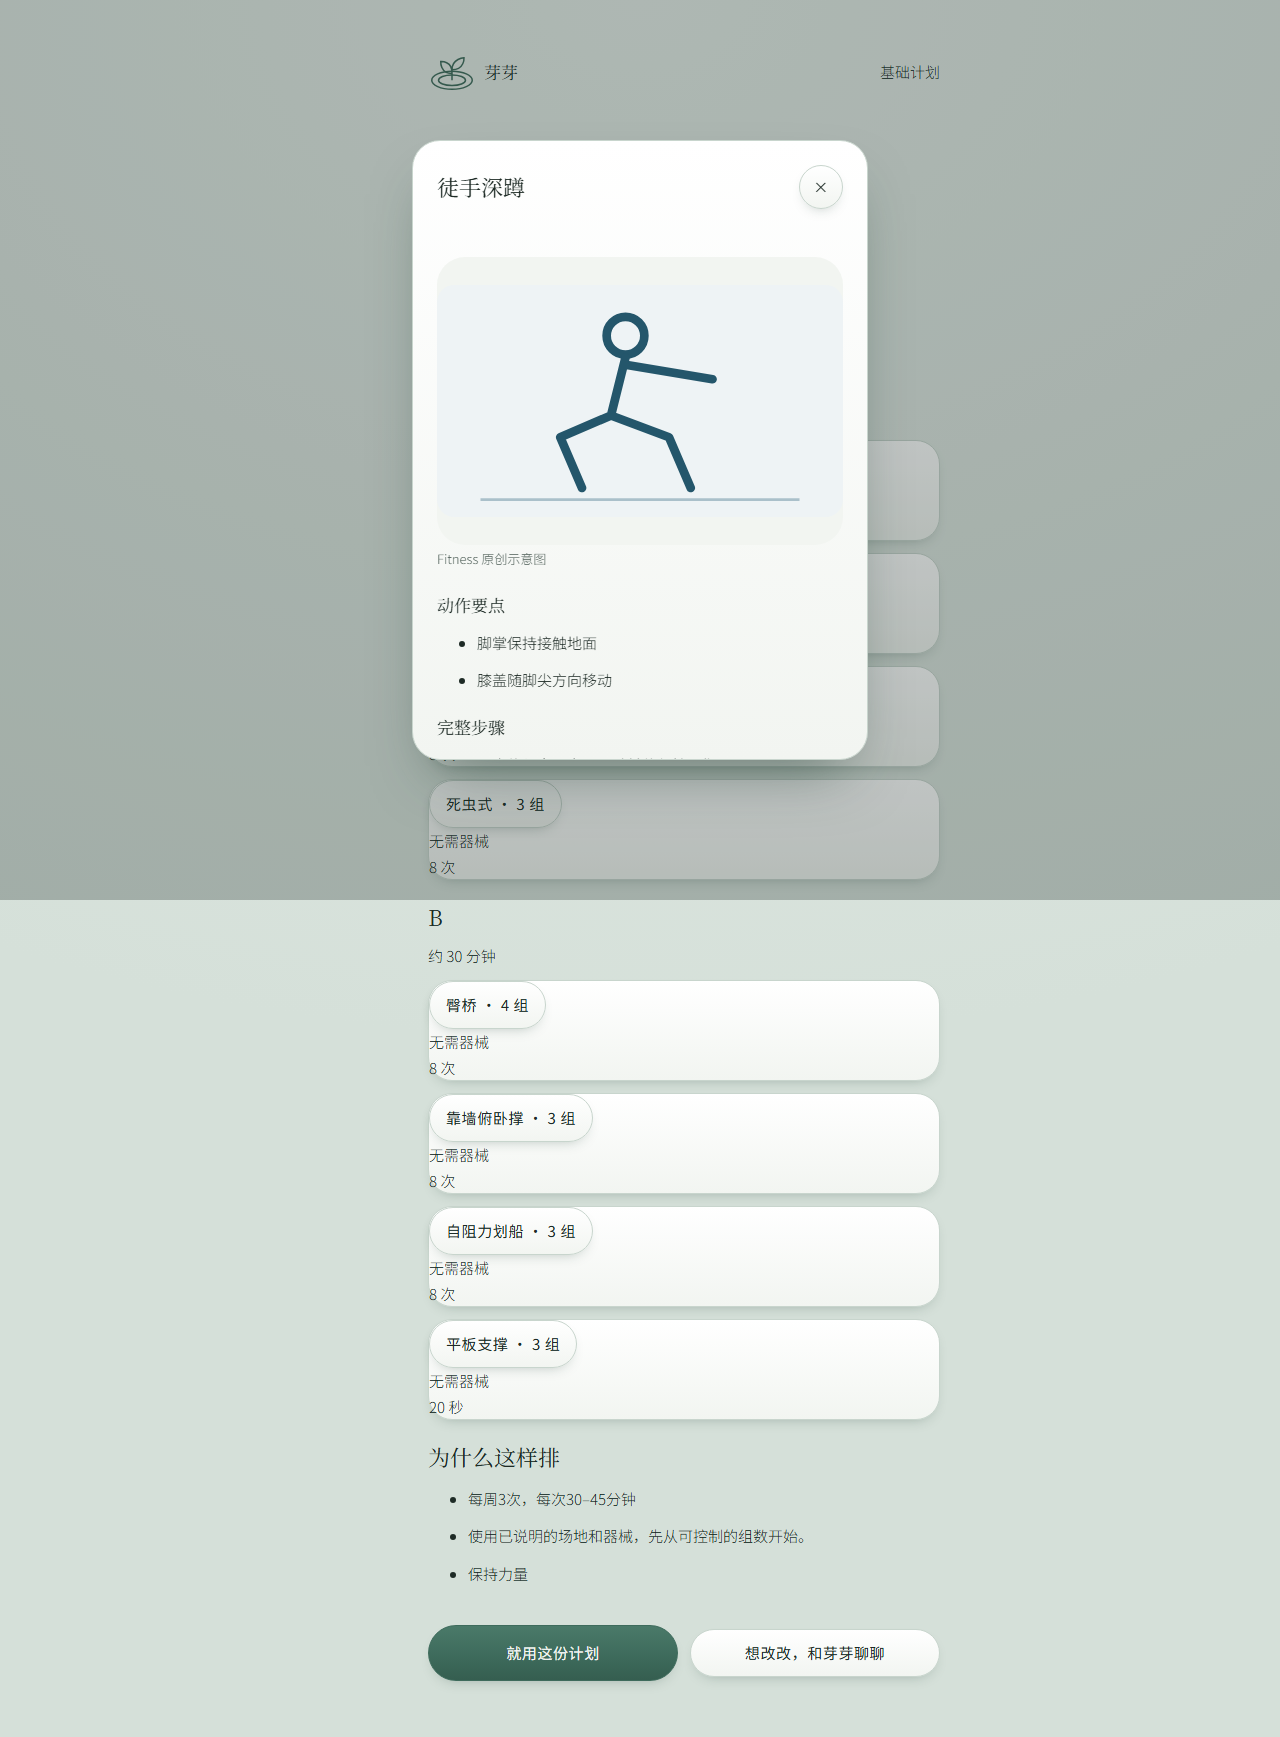
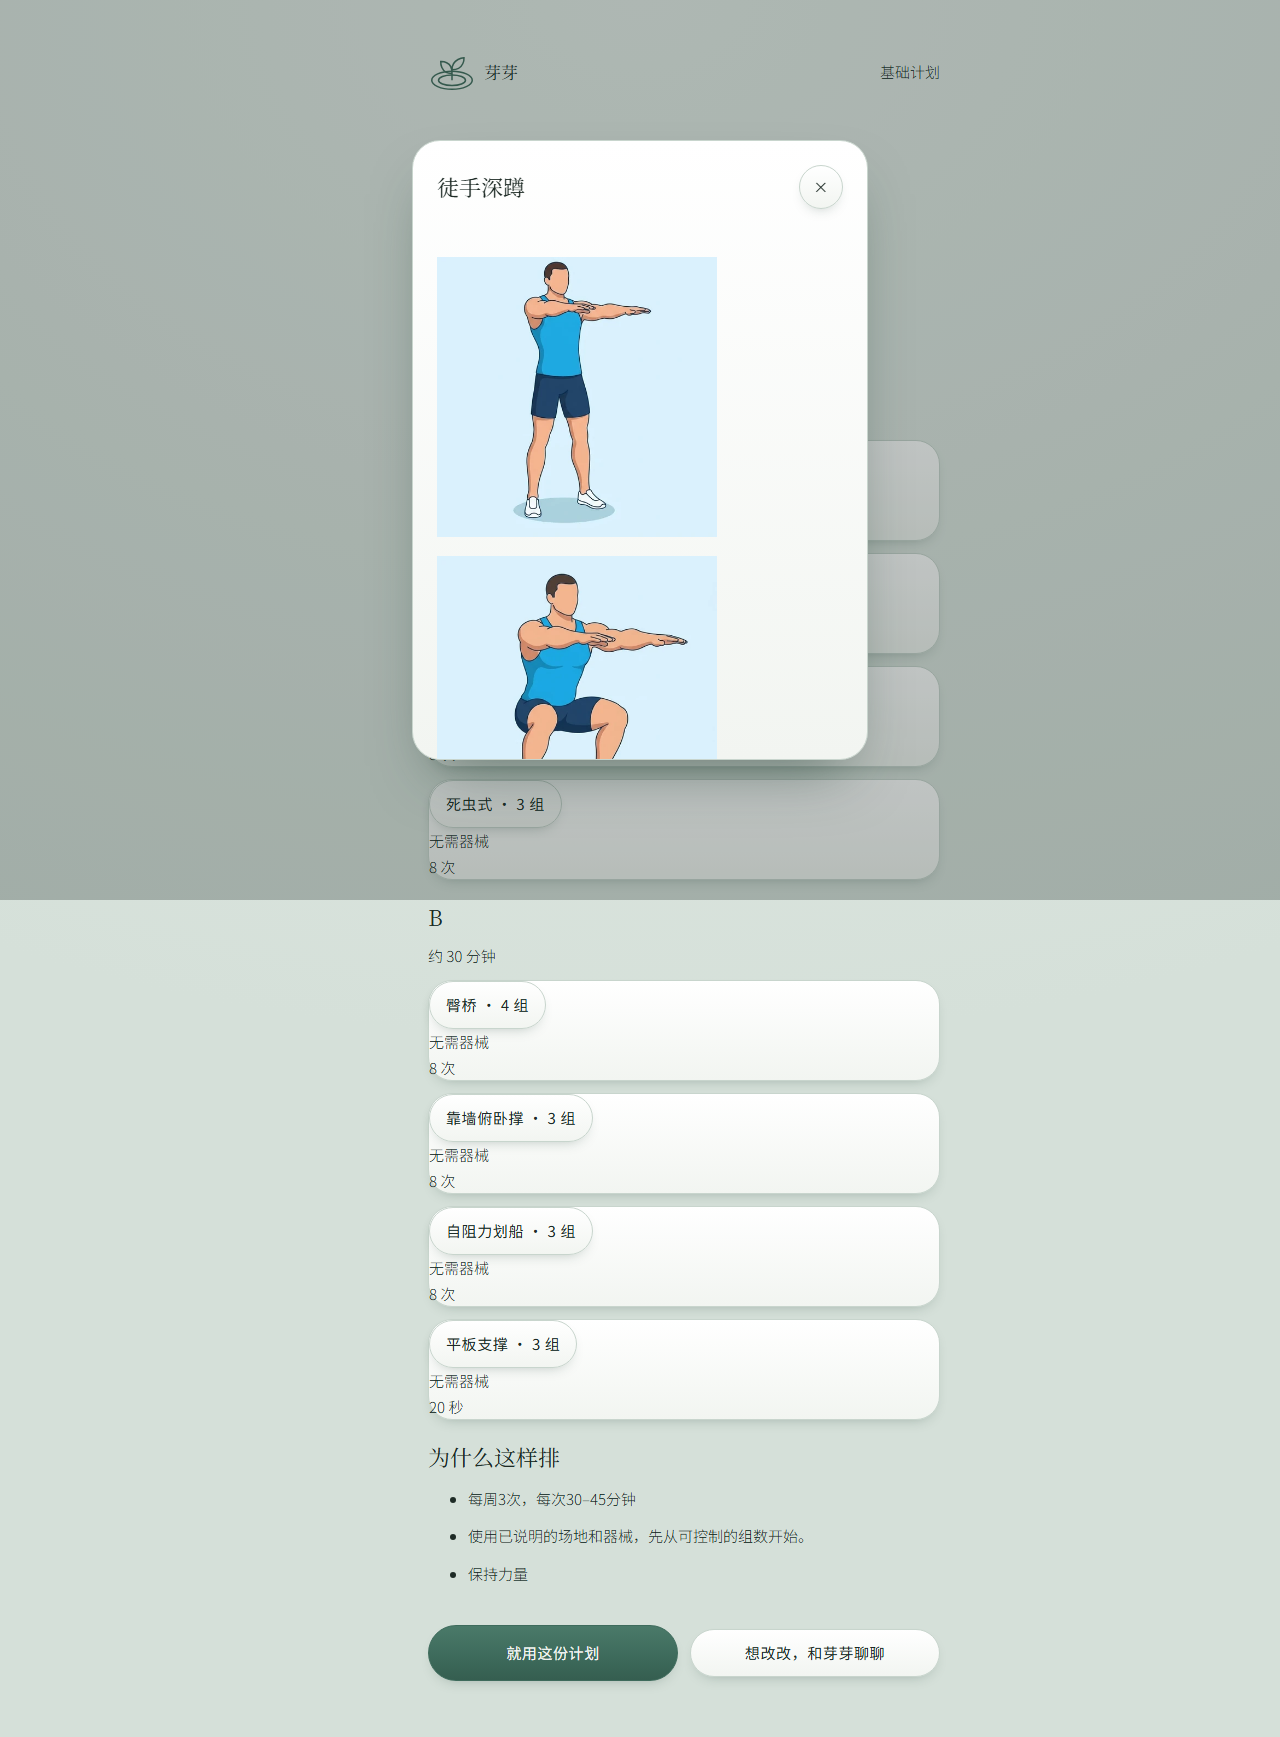
feat: replace legacy stick illustrations with matched and original person media

Changed region(s): [[0.3438, 0.1554, 0.5625, 0.4352], [0.5, 0.2487, 0.5625, 0.2798]]

diff --git a/src/ui/components/ExerciseMedia.tsx b/src/ui/components/ExerciseMedia.tsx
@@ -1,4 +1,4 @@
-import { catalogMetadata } from '../../catalog/registry';
+import { exerciseVisual, exerciseVisualMetadata } from '../../catalog/exercise-visual';
 import { RepDBMedia } from './RepDBMedia';
 import { AppIcon } from './AppIcon';
 import { useState } from 'react';
@@ -10,14 +10,15 @@ export function ExerciseMedia({ exerciseId, exerciseName, locale }: { exerciseId
  const [state, setState] = useState<'idle' | 'loading' | 'failed'>('idle');
  const [imageFailed, setImageFailed] = useState(false);
  const zh = locale === 'zh';
- const repdb = catalogMetadata.has(exerciseId);
- if (!media) return repdb ? <RepDBMedia exerciseId={exerciseId} exerciseName={exerciseName} locale={locale} /> : null;
+ const repdb = exerciseVisualMetadata(exerciseId);
+ const visual = exerciseVisual(exerciseId);
+ if (!media) return repdb ? <RepDBMedia exerciseId={exerciseId} exerciseName={exerciseName} locale={locale} /> : visual ? <><img src={visual.src} alt={exerciseName} width="280" height="280"/><p className="muted">{zh ? 'Fitness 原创示意图' : visual.attribution}</p></> : null;
  const url = media.videoId && youtubeEmbedUrl(media.videoId);
  return <section style={{ overflowWrap: 'anywhere' }} aria-label={zh ? `${exerciseName} 媒体参考` : `${exerciseName} media reference`}>
-  {!imageFailed && <img src={media.illustration} alt={zh ? `${exerciseName} 原创示意图` : `${exerciseName} original illustration`} width="280" height="160" style={{ maxWidth: '100%', height: 'auto' }} onError={() => setImageFailed(true)} />}
+  {repdb ? <RepDBMedia exerciseId={exerciseId} exerciseName={exerciseName} locale={locale}/> : !imageFailed && visual && <img src={visual.src} alt={exerciseName} width="280" height="280" style={{ maxWidth: '100%', height: 'auto' }} onError={() => setImageFailed(true)} />}
   {imageFailed && <p role="status"><AppIcon name="info"/>{zh ? '示意图不可用，仍可阅读动作步骤。' : 'Illustration unavailable. Written steps remain available.'}</p>}
-  <p className="muted">{zh ? '原创示意图；动作姿势尚未经专业审核。' : 'Original illustration; movement form has not been professionally reviewed.'}</p>
-  <p className="muted">{zh ? '图片为本项目原创素材；未使用第三方图片授权。' : 'The illustration is original to this project; no third-party image licence is claimed.'}</p>
+  {!repdb && <><p className="muted">{zh ? '原创示意图；动作姿势尚未经专业审核。' : 'Original illustration; movement form has not been professionally reviewed.'}</p>
+  <p className="muted">{zh ? '图片为本项目原创素材；未使用第三方图片授权。' : 'The illustration is original to this project; no third-party image licence is claimed.'}</p></>}
   <p><a href={media.source.url} target="_blank" rel="noopener noreferrer" referrerPolicy="no-referrer">{zh ? '查看来源（连接第三方）' : 'Open source (connects to a third party)'}: {media.source.title}</a></p>
   {url ? <>
    {media.video && <>

diff --git a/src/catalog/exercise-guide.ts b/src/catalog/exercise-guide.ts
@@ -3,7 +3,7 @@ import { EXERCISE_IDS } from './exercise-ids';
 import { exercises } from './exercises';
 import { DomainError } from '../domain/errors';
 import { catalogMetadata, exerciseBodyPart } from './registry';
-import { getExerciseMedia } from './media';
+import { exerciseVisual } from './exercise-visual';
 import guides from './generated/guides-zh.json';
 import details from './generated/details.json';
 export type ExercisePlace = 'home' | 'gym' | 'outdoor';
@@ -20,12 +20,12 @@ function exercise(id:string) {const e=exercises.find(e=>e.id===id);if(!e)throw n
 export function getExerciseGuide(id:string,locale:Locale):ExerciseGuide {
  const e=exercise(id),meta=catalogMetadata.get(id),slug=meta?.slug??(id===EXERCISE_IDS.gobletSquat?'goblet-squat':id===EXERCISE_IDS.bodyweightSquat?'bodyweight-squat':undefined),detail=detailMap.get(id);
  const guide=slug?guideMap[slug]:undefined;
- const local=getExerciseMedia(id);const src=meta?.media.start??meta?.media.main??meta?.media.peak??local?.illustration;
+ const visual=exerciseVisual(id);
  const steps=locale==='zh'?(id===EXERCISE_IDS.gobletSquat?e.steps.zh:guide?.steps??e.steps.zh):(detail?.steps??e.steps.en);
  return structuredClone({name:e.name[locale],keyPoints:locale==='zh'?(guide?.keyPoints??steps.slice(0,2)):(detail?.cautions.slice(0,2).length===2?detail.cautions.slice(0,2):steps.slice(0,2)),steps,
  mistakes:locale==='zh'?(guide?.mistakes??['避免借力猛拉或追求无法控制的动作幅度。']):['Avoid jerking or using a range you cannot control.'],
  cautions:locale==='zh'?(guide?.cautions??e.cautions.zh):(detail?.cautions??e.cautions.en),
- ...(src?{media:{src,alt:e.name[locale],attribution:meta?'Exercise data by RepDB (repdb.co)':'Fitness original illustration'}}:{})});
+ ...(visual?{media:{...visual,alt:e.name[locale]}}:{})});
 }
 export function getExerciseTags(id:string):ExerciseTags {
  const e=exercise(id),meta=catalogMetadata.get(id),slug=meta?.slug??'',body=exerciseBodyPart(id),muscles=meta?.primaryMuscles??[];

diff --git a/src/ui/components/ExerciseGuide.tsx b/src/ui/components/ExerciseGuide.tsx
@@ -4,7 +4,7 @@ import type { Locale } from '../../domain/models';
 import { MorphPanel } from './common';
 import { RepDBAttribution } from './RepDBAttribution';
 import { RepDBMedia } from './RepDBMedia';
-import { catalogMetadata } from '../../catalog/registry';
+import { exerciseVisualMetadata } from '../../catalog/exercise-visual';
 import zh from '../../i18n/features/training/guide.zh.json';
 import en from '../../i18n/features/training/guide.en.json';
 import './exercise-guide.css';
@@ -23,7 +23,7 @@ export function ExerciseGuideAttribution({id,locale}:{id:string;locale:Locale}) 
 export function ExerciseGuidePanel({id,locale,open,onClose,triggerRef}:{id?:string;locale:Locale;open:boolean;onClose:()=>void;triggerRef:RefObject<HTMLElement|null>}) {
  const guide=id?getExerciseGuide(id,locale):undefined,copy=locale==='zh'?zh:en;
  return <MorphPanel open={open&&!!guide} onClose={onClose} triggerRef={triggerRef} title={guide?.name??copy.details} closeLabel={copy.close}>
-  {guide&&id&&<div className="exercise-guide-detail">{catalogMetadata.has(id)?<RepDBMedia exerciseId={id} exerciseName={guide.name} locale={locale}/>:<><ExerciseGuideImage key={id} id={id} locale={locale}/><ExerciseGuideAttribution id={id} locale={locale}/></>}
+  {guide&&id&&<div className="exercise-guide-detail">{exerciseVisualMetadata(id)?<RepDBMedia exerciseId={id} exerciseName={guide.name} locale={locale}/>:<><ExerciseGuideImage key={id} id={id} locale={locale}/><ExerciseGuideAttribution id={id} locale={locale}/></>}
    <h3>{copy.points}</h3><ul>{guide.keyPoints.map((v,i)=><li key={i}>{v}</li>)}</ul>
    <h3>{copy.steps}</h3><ol>{guide.steps.map((v,i)=><li key={i}>{v}</li>)}</ol>
    {!!guide.mistakes.length&&<><h3>{copy.mistakes}</h3><ul>{guide.mistakes.map((v,i)=><li key={i}>{v}</li>)}</ul></>}

diff --git a/tests/e2e/mainline-polish.spec.ts b/tests/e2e/mainline-polish.spec.ts
@@ -10,6 +10,17 @@ async function onboard(page:Page){
  }
  await page.getByLabel('我已年满 18 岁',{exact:false}).check();await page.getByRole('button',{name:'生成我的第一版计划'}).click();
 }
+
+test('legacy exercise cards use provider or original person images, never stick SVGs',async({page})=>{
+ await page.goto('/manual');
+ for(const [name,src] of [['高脚杯深蹲','/media/dumbbell-goblet-squat.png'],['自阻力划船','/media/self-resisted-row.png'],['徒手深蹲','bodyweight-squat'],['平板支撑','plank']]) {
+  await page.getByRole('searchbox').fill(name);
+  const card=page.locator('.manual-card').filter({has:page.getByRole('button',{name,exact:true})}).first();
+  const image=card.locator('img').first();await expect(image).toHaveAttribute('src',new RegExp(src));
+  await expect.poll(()=>image.evaluate((img:HTMLImageElement)=>img.complete&&img.naturalWidth>0)).toBe(true);
+  if(src.startsWith('/media/')) { await card.scrollIntoViewIfNeeded(); await shot(page,`manual-illustration-${name}`); }
+ }
+});
 test('RepDB guide retains both poses and visible source link',async({page})=>{
  await page.goto('/manual');await page.getByRole('searchbox').fill('reverse lunge');await page.getByRole('button',{name:'反向弓步',exact:true}).click();await page.getByRole('button',{name:'开始',exact:true}).click();await page.getByRole('button',{name:'查看动作指导',exact:true}).click();
  const dialog=page.getByRole('dialog');await expect(dialog.locator('.repdb-media img')).toHaveCount(2);await expect(dialog.getByRole('link',{name:'RepDB',exact:true})).toHaveAttribute('href','https://repdb.co/');

diff --git a/tests/catalog/exercise-visual.test.ts b/tests/catalog/exercise-visual.test.ts
@@ -1,0 +1,28 @@
+import { describe, it, expect } from 'vitest';
+import { existsSync } from 'node:fs';
+import { EXERCISE_IDS } from '../../src/catalog/exercise-ids';
+import { exerciseVisual, exerciseVisualMetadata } from '../../src/catalog/exercise-visual';
+import { getExerciseGuide } from '../../src/catalog/exercise-guide';
+
+describe('shared exercise illustrations', () => {
+ it('reuses the exact provider movement without changing legacy IDs', () => {
+  for (const id of [EXERCISE_IDS.bodyweightSquat, EXERCISE_IDS.plank, EXERCISE_IDS.walking]) {
+   expect(exerciseVisual(id)?.src).toMatch(/^\/exercise-media\/repdb\/.*\.webp$/);
+   expect(getExerciseGuide(id, 'zh').media?.attribution).toContain('RepDB');
+  }
+  expect(exerciseVisualMetadata(EXERCISE_IDS.bodyweightSquat)?.slug).toBe('bodyweight-squat');
+ });
+ it('does not substitute the kettlebell illustration for a dumbbell exercise', () => {
+  for (const id of [EXERCISE_IDS.gobletSquat, EXERCISE_IDS.selfResistedRow]) {
+   const visual = exerciseVisual(id)!;
+   expect(visual.src).toMatch(/^\/media\/.*\.png$/);
+   expect(visual.attribution).not.toContain('RepDB');
+   expect(existsSync(`public${visual.src}`)).toBe(true);
+   expect(getExerciseGuide(id, 'zh').media?.src).toBe(visual.src);
+  }
+ });
+ it('has no active stick SVG fallback or caller supplied URL', () => {
+  for (const id of Object.values(EXERCISE_IDS)) expect(exerciseVisual(id)?.src).not.toMatch(/\.svg$/);
+  for (const id of ['constructor', '__proto__', 'https://example.test/a.png']) expect(exerciseVisual(id)).toBeUndefined();
+ });
+});

diff --git a/tests/e2e/helpers/v8-e-onboarding.tsx b/tests/e2e/helpers/v8-e-onboarding.tsx
@@ -4,6 +4,7 @@ import { OnboardingPage, type OnboardingAnswers } from '../../../src/ui/pages/on
 import { PlanDraftPage, type OnboardingProposal } from '../../../src/ui/pages/onboarding/PlanDraftPage';
 import type { ThemeSlots } from '../../../src/themes/contract';
 import { Button } from '../../../src/ui/components/common';
+import { EXERCISE_IDS } from '../../../src/catalog/exercise-ids';
 import '../../../src/ui/theme.css';
 import './v8-e-onboarding.css';
 
@@ -16,7 +17,7 @@ const slots: Pick<ThemeSlots, 'BrandMark' | 'AiLine' | 'Suggestions'> = {
 const candidate: OnboardingProposal = {
   type: 'plan_proposal', requestId: '00000000-0000-4000-8000-000000000001', restoreGeneration: 2, mutationAllowed: false,
   proposal: { goalText: '想有些力量，不再容易累', weeklyTarget: 2, scheduleOriginalText: '每周 2 次，每次 30 分钟', sessionMinutes: 30,
-    templates: ['全身 A', '全身 B'].map((name, i) => ({ id: String(i), name, estimatedMinutes: 30, items: [{ exerciseId: 'squat', equipment: 'dumbbell', sets: 2, target: { metricType: 'reps', reps: 8 } }] })),
+    templates: ['全身 A', '全身 B'].map((name, i) => ({ id: String(i), name, estimatedMinutes: 30, items: [{ exerciseId: EXERCISE_IDS.gobletSquat, equipment: 'dumbbell', sets: 2, target: { metricType: 'reps', reps: 8 } }] })),
     reasons: ['从熟悉动作开始。', '两次训练之间留出休息。', '每次约半小时，方便安排。'],
   },
 };

diff --git a/tests/e2e/v8-mainline.spec.ts b/tests/e2e/v8-mainline.spec.ts
@@ -102,8 +102,11 @@ test('manual timed distance exercise preserves edited measurements after reload'
   await onboard(page); await page.getByRole('button', { name: '就用这份计划' }).click();
   await page.getByRole('button', { name: '手动训练', exact: true }).click();
   const id = await page.evaluate(async () => { const p = '/src/catalog/exercises.ts'; return (await import(/* @vite-ignore */ p)).exercises.find((e: { metricType: string }) => e.metricType === 'duration_distance').id; });
-  await page.getByRole('combobox', { name: '选择动作' }).selectOption(id);
-  await page.getByRole('button', { name: '开始训练', exact: true }).click();
+  const name = await page.evaluate(async (exerciseId) => { const p = '/src/catalog/exercises.ts'; return (await import(/* @vite-ignore */ p)).exercises.find((e: { id: string }) => e.id === exerciseId).name.zh; }, id);
+  await page.getByRole('button', { name: '清空筛选', exact: true }).click();
+  await page.getByRole('searchbox').fill(name);
+  await page.getByRole('button', { name, exact: true }).first().click();
+  await page.getByRole('button', { name: '开始', exact: true }).click();
   await page.getByRole('button', { name: '修改数值' }).click();
   await page.getByLabel('秒', { exact: true }).fill('120');
   await page.getByLabel('米', { exact: true }).fill('250');

diff --git a/tests/e2e/v8-e-onboarding.spec.ts b/tests/e2e/v8-e-onboarding.spec.ts
@@ -36,10 +36,12 @@ for (const theme of ['qingci', 'liubai', 'jingshe', 'zhuangse']) for (const widt
     await generate.click();
     await expect(page.getByLabel('generate calls')).toHaveText('1');
     await expect(page.getByLabel('confirm calls')).toHaveText('0');
-    await page.locator('.v8-draft-exercise summary').first().click();
+    await page.locator('.v8-draft-exercise button').first().click();
+    await expect(page.getByRole('dialog')).toBeVisible();
+    await page.getByRole('dialog').getByRole('button', { name: '关闭', exact: true }).click();
     await expect(page.locator('.v8-draft-exercise').first().getByText('哑铃', { exact: true })).toBeVisible();
     await expect(page.locator('.v8-draft-exercise').first()).not.toContainText('dumbbell');
-    await expect(page.locator('.v8-draft-exercise').first().getByText('8 次', { exact: true })).toBeVisible();
+    await expect(page.locator('.v8-draft-exercise').first().getByText(/^8 次(?: · .+)?$/)).toBeVisible();
     await page.screenshot({ path: info.outputPath(`${theme}-${width}-draft.png`), fullPage: true });
     expect(await page.evaluate(() => document.documentElement.scrollWidth)).toBeLessThanOrEqual(width);
     await page.getByRole('button', { name: '就用这份计划', exact: true }).click();

diff --git a/src/ui/components/RepDBMedia.tsx b/src/ui/components/RepDBMedia.tsx
@@ -1,5 +1,5 @@
 import { useState } from 'react';
-import { catalogMetadata } from '../../catalog/registry';
+import { exerciseVisualMetadata } from '../../catalog/exercise-visual';
 import type { Locale } from '../../domain/models';
 import { RepDBAttribution } from './RepDBAttribution';
 
@@ -10,7 +10,7 @@ export function CatalogImage({ src, alt, locale }: { src?: string; alt: string; 
     : <img src={src} alt={alt} width="280" height="200" loading="lazy" style={{ maxWidth: '100%', height: 'auto', objectFit: 'contain' }} onError={() => setFailed(src)} />;
 }
 export function RepDBMedia({ exerciseId, exerciseName, locale, thumbnail = false }: { exerciseId: string; exerciseName: string; locale: Locale; thumbnail?: boolean }) {
-  const metadata = catalogMetadata.get(exerciseId);
+  const metadata = exerciseVisualMetadata(exerciseId);
   if (!metadata) return null;
   const poses = (['start', 'peak', 'main'] as const).filter(pose => metadata.media[pose]);
   const selected = thumbnail ? poses.slice(0, 1) : poses;

diff --git a/src/catalog/exercise-visual.ts b/src/catalog/exercise-visual.ts
@@ -1,0 +1,15 @@
+import { EXERCISE_IDS } from './exercise-ids';
+import { catalogMetadata } from './registry';
+
+// Media aliases never change the exercise identity stored in plans or history.
+export function exerciseVisualMetadata(id: string) {
+ return catalogMetadata.get(id === EXERCISE_IDS.bodyweightSquat ? 'fe06a323-6426-5771-893c-b99a2ca1978d' : id);
+}
+export function exerciseVisual(id: string) {
+ const metadata = exerciseVisualMetadata(id);
+ const providerSrc = metadata?.media.start ?? metadata?.media.main ?? metadata?.media.peak;
+ if (providerSrc) return { src: providerSrc, attribution: 'Exercise data by RepDB (repdb.co)' };
+ const src = id === EXERCISE_IDS.gobletSquat ? '/media/dumbbell-goblet-squat.png'
+  : id === EXERCISE_IDS.selfResistedRow ? '/media/self-resisted-row.png' : undefined;
+ return src ? { src, attribution: 'Fitness original illustration' } : undefined;
+}

diff --git a/tests/unit/media.test.ts b/tests/unit/media.test.ts
@@ -15,8 +15,9 @@ describe('catalogue media trust boundary', () => {
   const before = structuredClone(exercises);
   for (const exercise of exercises.slice(0, 4)) {
    const html = renderToStaticMarkup(createElement(ExerciseMedia, { exerciseId: exercise.id, exerciseName: exercise.name.en, locale: 'en' }));
-   expect(html).not.toContain('<iframe'); expect(html).toContain('src="/media/');
-   expect(html).toContain('movement form has not been professionally reviewed');
+   expect(html).not.toContain('<iframe'); expect(html).toMatch(/src="\/(media|exercise-media)\//);
+   expect(html).not.toMatch(/src="\/media\/[^" ]+\.svg/);
+   expect(html).toContain(exercise.id === exercises[0].id ? 'movement form has not been professionally reviewed' : 'RepDB');
    expect(html).toContain('no-referrer');
   }
   expect(exercises).toEqual(before);

diff --git a/public/media/NOTICE.md b/public/media/NOTICE.md
@@ -1,3 +1,13 @@
 # Original illustration notice
 
 These four SVG files were drawn directly with geometric SVG primitives for Fitness on 2026-10-05. They contain no traced, downloaded, copied or generated third-party image. They are project-original illustrative assets, not professionally reviewed movement instruction; the UI discloses that limitation. No external image licence is asserted. No video or thumbnail is hosted here. Linked videos remain hosted by their respective publishers/YouTube, subject to platform terms and publisher restrictions.
+
+## Independent generated illustrations — 2026-10-11
+
+`dumbbell-goblet-squat.png` and `self-resisted-row.png` were generated for Fitness with the built-in image generator, using an original adult woman in a sage shirt and charcoal leggings. No RepDB image was supplied, traced, or used as generation reference. The second image used only the first Fitness-generated image for character consistency. These are not RepDB assets and do not imply RepDB or NASM endorsement. Movement form has not been professionally reviewed.
+
+- Goblet squat: original full-body illustration, one vertical dumbbell at the chest, stable feet, knees tracking toes, controlled squat. Factual pose guidance: https://www.nasm.org/resource-center/blog/training/how-to-perform-goblet-squats . No image from this page was used.
+- Self-resisted row: original full-body illustration of the wrist-grip preparation, standing upright, one hand resisting the opposite wrist, without equipment. Based on the existing Fitness written steps. Searches did not establish a reliable primary source for this exact variant; this is not independently verified exercise instruction or a depiction of the entire movement.
+- Generation used two calls. The existing geometric SVG originals remain archived; application media resolution no longer selects them. Exact matching RepDB media is reused separately under its own license and attribution.
+
+RepDB license clause 5 prohibits its images as generative input/reference/conditioning: https://github.com/RepDB/exercise-dataset/blob/main/LICENSE-DATA.md . Provider assets remain separate and retain https://repdb.co/ attribution.
